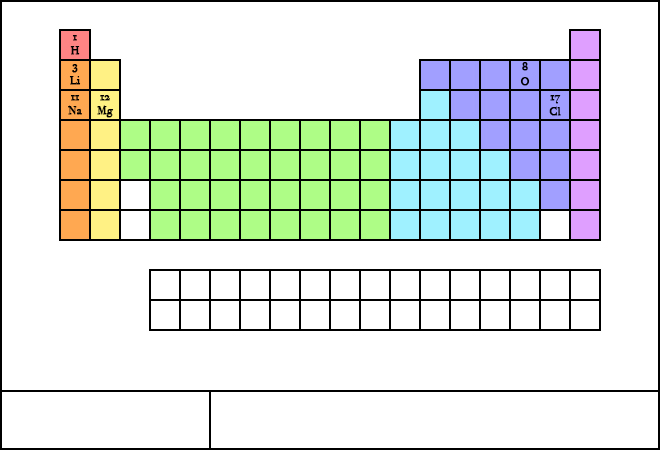
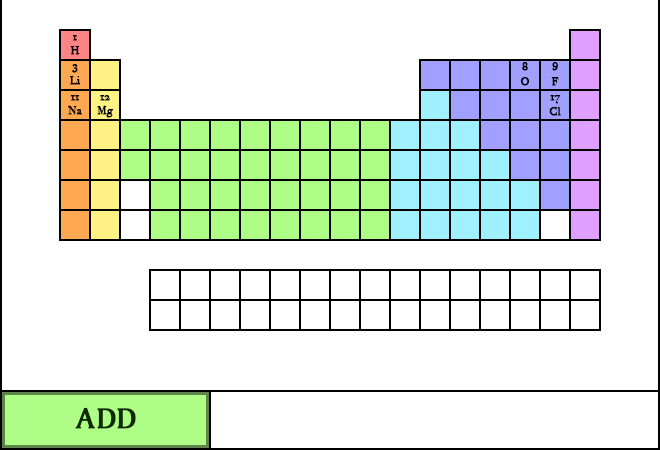
Periodic Table Overlay Added
- Michael

Changed region(s): [[0.0, 0.8711, 0.3333, 0.9956], [0.0, 0.0, 1.0, 0.0311], [0.8182, 0.1244, 0.8485, 0.1867]]

diff --git a/index.html b/index.html
@@ -148,56 +148,6 @@
 </div>
 </body>
 <script type="text/javascript">
-    let borderWidth = document.documentElement.clientWidth - 1320;
-    let elementStatus = [
-        {element: "Hydrogen", x: 61, y: 31, status: false},
-        {element: "Lithium", x: 61, y: 61, status: false},
-        {element: "Sodium", x: 61, y:91, status: false},
-        {element: "Magnesium", x: 91, y: 91, status: false},
-        {element: "Chloride", x: 541, y: 91, status: false},
-        {element: "Oxygen", x: 511, y: 61, status: false}
-
-    ];
-    let c = document.getElementById("PT");
-    let ctx = c.getContext("2d");
-
-    function draw() {
-        let borderWidth = document.documentElement.clientWidth - 1320;
-        for (i = 0; i < elementStatus.length; i++) {
-            ctx.beginPath();
-            if (elementStatus[i].status === true) {
-                ctx.clearRect(elementStatus[i].x, elementStatus[i].y, 28, 28);
-                ctx.rect(elementStatus[i].x, elementStatus[i].y, 28, 28);
-                ctx.fillStyle = "rgba(0,0,0,0.5)";
-                ctx.fill();
-            } else {
-                ctx.clearRect(elementStatus[i].x, elementStatus[i].y, 28, 28);
-            }
-        }
-    }
-
-    setInterval(draw,10);
-    c.addEventListener('click', onClickHandler, true);
-    function onClickHandler(e) {
-        let tableRect = c.getBoundingClientRect();
-        let X = e.clientX - tableRect.left;
-        let Y = e.clientY - tableRect.top;
-        for (i = 0; i < elementStatus.length; i++) {
-            if (X > elementStatus[i].x && X < (elementStatus[i].x + 28) && Y > elementStatus[i].y && Y < (elementStatus[i].y + 28)) {
-                if (elementStatus[i].status === true){
-                    elementStatus[i].status = false;
-                }   else {
-                    elementStatus[i].status = true;
-                }
-
-            }
-
-        }
-    }
-
-
-
-
 
     class IonicCompound
     {
@@ -214,11 +164,11 @@
 
         checkState(temperature, waterEnvironment)
         {
-            if (temperature >= this.bp)
+            if (temperature >= this.mp)
             {
                 this.state = "GAS"
             }
-            else if (temperature >= this.mp)
+            else if (temperature >= this.bp)
             {
                 this.state = "LIQUID"
             }
@@ -262,7 +212,7 @@
     }
 
     class Reaction
-        {
+    {
         constructor(reactants, products, requiredCondition)
         {
             this.reactants = reactants;
@@ -272,7 +222,7 @@
 
         checkForActivation(currentCompounds, property)
         {
-            let willReact = false;
+            let willReact = true;
             let reactants = this.reactants;
             for (let i = 0; i < this.reactants.length; i++)
             {
@@ -327,7 +277,6 @@
             }
         }
     }
-
     var possibleCompounds = //TODO: Add waterSoluble
         {
             ["NaH"]: new IonicCompound(["Na", "H"], 300, Infinity),
@@ -355,15 +304,87 @@
             [new Reaction(["Mg", "O2"], ["MgO"], ">50"),"temperature"],
             [new Reaction(["NaCl"], ["NaOH", "Cl2", "H2"],  ">20"),"current"],
         ];
+    let borderWidth = document.documentElement.clientWidth - 1320;
+    let elementStatus = [
+        {element: "Hydrogen", x: 61, y: 31, status: false},
+        {element: "Lithium", x: 61, y: 61, status: false},
+        {element: "Sodium", x: 61, y:91, status: false},
+        {element: "Magnesium", x: 91, y: 91, status: false},
+        {element: "Chloride", x: 541, y: 91, status: false},
+        {element: "Oxygen", x: 511, y: 61, status: false}
+
+    ];
+    let c = document.getElementById("PT");
+    let ctx = c.getContext("2d");
 
 
-    function simulationManager()
-    {
-        for (let i =0; i <possibleReactions.length;i++)
+
+
+    c.addEventListener('click', onClickHandler, true);
+    function onClickHandler(e) {
+        let tableRect = c.getBoundingClientRect();
+        let X = e.clientX - tableRect.left;
+        let Y = e.clientY - tableRect.top;
+        if (X)
+        for (i = 0; i < elementStatus.length; i++) {
+            if (X > elementStatus[i].x && X < (elementStatus[i].x + 28) && Y > elementStatus[i].y && Y < (elementStatus[i].y + 28)) {
+                if (elementStatus[i].status === true){
+                    elementStatus[i].status = false;
+                }   else {
+                    elementStatus[i].status = true;
+                }
+            }
+
+        }
+        if (X > 2 && X < 330){
+            currentCompounds.push(
+                ''
+            )
+
+        }
+    }
+
+//
+//    function simulationManager()
+//    {
+//        for (let i =1; i <possibleReactions.length;i++)
+//        {
+//            currentCompounds = possibleReactions[i][0].checkForActivation(currentCompounds,eval(possibleReactions[i][1]));
+//        }
+//
+//        for (let i = 0; i < currentCompounds.length; i++)
+//        {
+//            try
+//            {
+//                possibleCompounds[currentCompounds[i]].checkState(temperature, waterEnvironment);
+//            }
+//            catch (Exception)
+//            {
+//
+//            }
+//        }
+//
+//
+//        requestAnimationFrame(simulationManager);
+//    }
+//    simulationManager();
+    function draw() {
+        let borderWidth = document.documentElement.clientWidth - 1320;
+        for (i = 0; i < elementStatus.length; i++) {
+            ctx.beginPath();
+            if (elementStatus[i].status === true) {
+                ctx.clearRect(elementStatus[i].x, elementStatus[i].y, 28, 28);
+                ctx.rect(elementStatus[i].x, elementStatus[i].y, 28, 28);
+                ctx.fillStyle = "rgba(0,0,0,0.5)";
+                ctx.fill();
+            } else {
+                ctx.clearRect(elementStatus[i].x, elementStatus[i].y, 28, 28);
+            }
+        }
+        for (let i =1; i <possibleReactions.length;i++)
         {
             currentCompounds = possibleReactions[i][0].checkForActivation(currentCompounds,eval(possibleReactions[i][1]));
         }
-
         for (let i = 0; i < currentCompounds.length; i++)
         {
             try
@@ -372,15 +393,11 @@
             }
             catch (Exception)
             {
-
             }
         }
-
-
-        requestAnimationFrame(simulationManager);
+        requestAnimationFrame(draw);
     }
-
-    simulationManager();
+    draw();
 </script>
 </body>
 </html>
